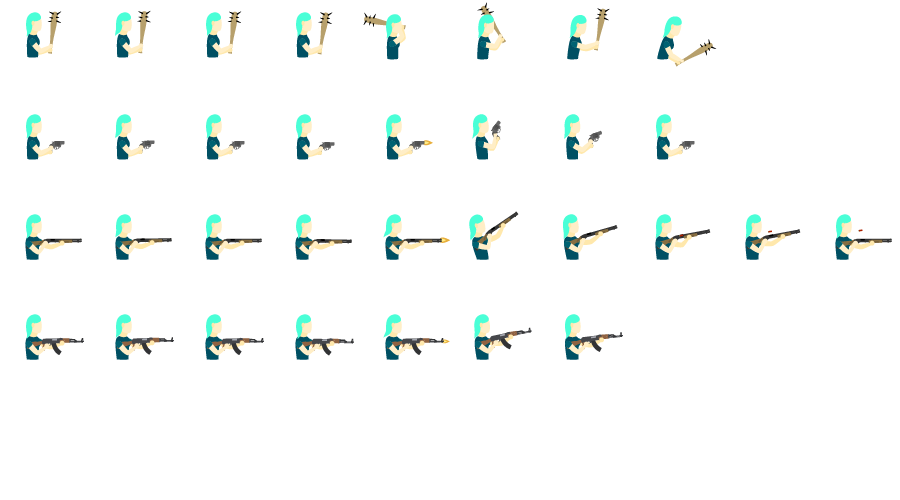
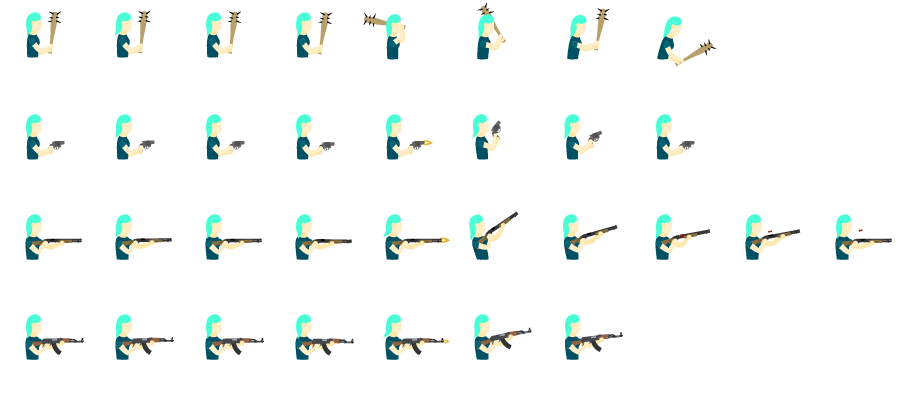
Moves proximity mines to their own button

diff --git a/src/objects/player.ts b/src/objects/player.ts
@@ -12,7 +12,7 @@ import { BaseballBat } from '../weapons/baseball-bat';
 import { Pistol } from '../weapons/pistol';
 import { Shotgun } from '../weapons/shotgun';
 import { AssaultRifle } from '../weapons/assault-rifle';
-import { ProximityMine } from '../weapons/proximity-mine';
+import { ProximityMine } from '../objects/proximity-mine';
 import { SpriteSheet } from '../graphics/spritesheet';
 
 /**
@@ -63,6 +63,7 @@ export class Player extends GameObject {
   public weapons: Weapon[];
   public equippedWeapon: Weapon;
   public weaponCooldownCounter: Counter = new Counter();
+  public numMines: number;
 
   public get width(): number {
     return 25;
@@ -106,9 +107,9 @@ export class Player extends GameObject {
       new Pistol(100),
       new Shotgun(100),
       new AssaultRifle(100),
-      new ProximityMine(100),
     ];
     this._baseballBat = this.equippedWeapon = this.weapons[0];
+    this.numMines = 100;
     // Add spritesheet
     this._spriteBottom = new PlayerBottom(
       PIXI.loader.resources['game/player-bottom'].texture,
@@ -137,7 +138,7 @@ export class Player extends GameObject {
     this._spriteTop = new SpriteSheet(
       PIXI.loader.resources['game/player-top'].texture,
       10, // images wide
-      5, // images high
+      4, // images high
       'baseball-bat-idle', // default anim
       {
         'baseball-bat-idle': {
@@ -172,14 +173,6 @@ export class Player extends GameObject {
           frames: [34, 35, 36],
           ticksPerFrame: 5,
         },
-        'mine-idle': {
-          frames: [40, 41, 42, 43],
-          ticksPerFrame: 10,
-        },
-        'mine-attack': {
-          frames: [44, 45, 46, 47],
-          ticksPerFrame: 3,
-        }
       }
     );
     this._spriteBottom.anchor.set(0.39, 0.5);
@@ -306,6 +299,12 @@ export class Player extends GameObject {
         this._spriteTop.stopAnim();
         this._spriteTop.playAnimOnce(`${this.equippedWeapon.type()}-attack`);
       }
+    }
+    // If the player pressed the drop mine button and we have mines left,
+    // drop a mine
+    if (this._game.keyState.isPressed(KeyState.Q) && this.numMines > 0) {
+      this.numMines--;
+      this._game.addGameObject(new ProximityMine(this._game));
     }
     // Offset the sprite top to match the sprite bottom
     this._spriteTop.y = this._spriteBottom.getTopOffset();

diff --git a/src/objects/proximity-mine.ts b/src/objects/proximity-mine.ts
@@ -1,8 +1,6 @@
-import { Weapon } from './weapon';
 import { Bullet } from '../objects/bullet';
 import { Player } from '../objects/player';
 import { Enemy } from '../objects/enemy';
-import { FadingText } from '../objects/fading-text';
 import * as Terrain from '../objects/terrain';
 import { GameObject } from '../objects/game-object';
 import { GameInstance } from '../game-instance';
@@ -11,7 +9,7 @@ import { Collider } from '../math/collider';
 import { Polar } from '../math/polar';
 import { Counter } from '../math/counter';
 
-class ProximityMineInstance extends Bullet {
+export class ProximityMine extends Bullet {
   // Don't explode immediately after spawning, wait for setup counter
   protected _setupCounter: Counter = new Counter(30);
 
@@ -125,15 +123,5 @@ class ProximityMineInstance extends Bullet {
     });
     // Mines can only be used once
     this.kill();
-  }
-}
-
-export class ProximityMine extends Weapon {
-  public type(): string { return 'mine'; }
-
-  public cooldown(): number { return 10; }
-
-  public fire(game: GameInstance): void {
-    game.addGameObject(new ProximityMineInstance(game));
   }
 }

diff --git a/src/input/keystate.ts b/src/input/keystate.ts
@@ -18,6 +18,7 @@ export class KeyState {
   public static get RIGHTARROW(): number { return 39; }
   public static get DOWNARROW(): number { return 40; }
   public static get ONE(): number { return 49; }
+  public static get Q(): number { return 81; }
 
   public addListeners(elem: HTMLElement,
                       trigger?: (string, x: number, y: number) => void): void {

diff --git a/src/weapons/pistol.ts b/src/weapons/pistol.ts
@@ -6,7 +6,7 @@ import { KeyState } from '../input/keystate';
 export class Pistol extends Weapon {
   public type(): string { return 'pistol'; }
 
-  public cooldown(): number { return 15; }
+  public cooldown(): number { return 10; }
 
   public fire(game: GameInstance): void {
     const offsetR = 9;
